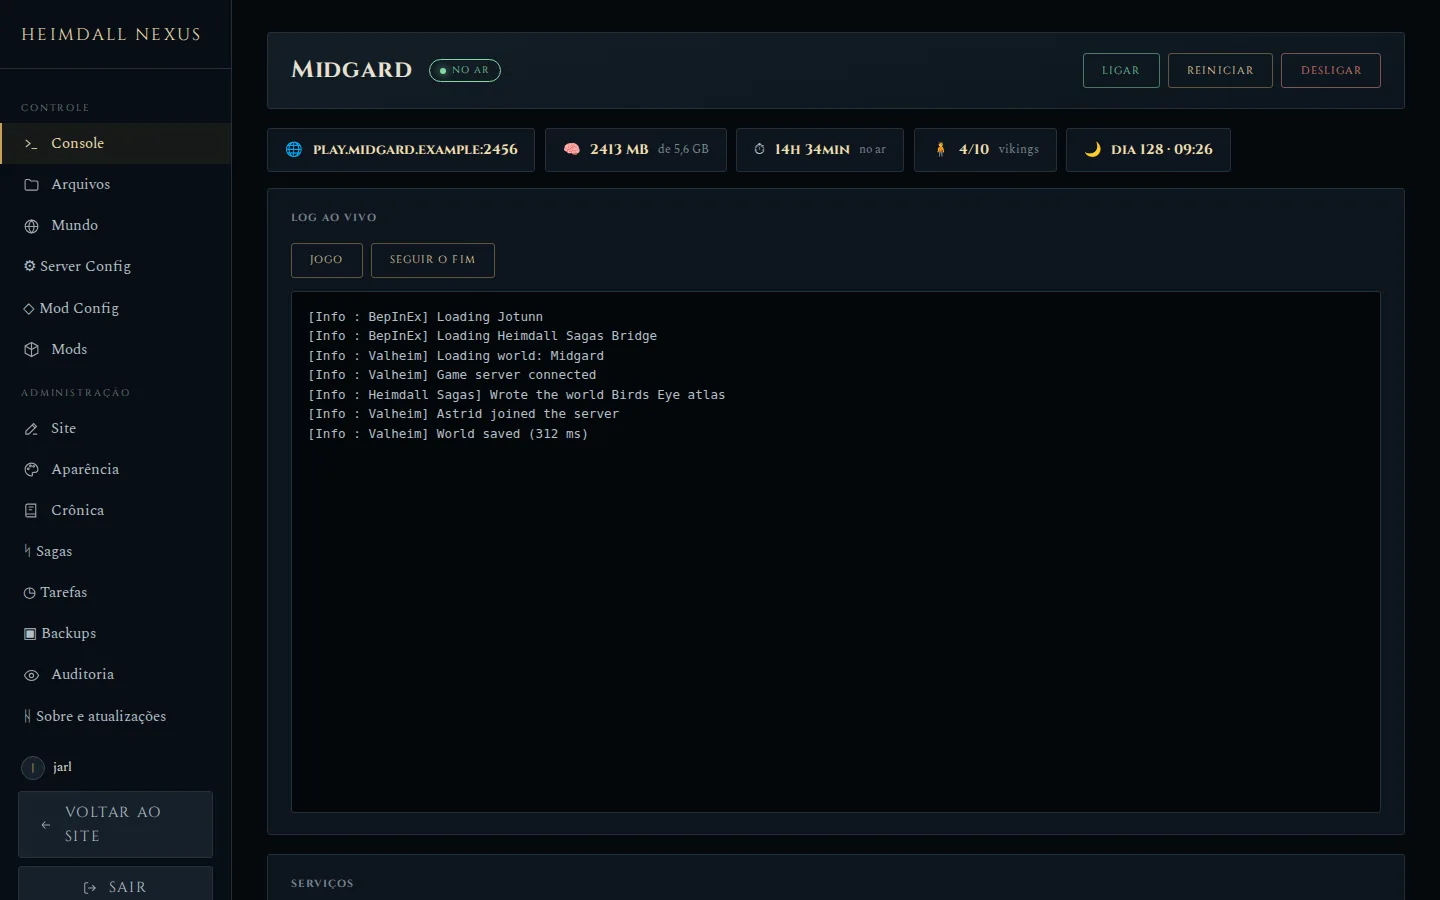
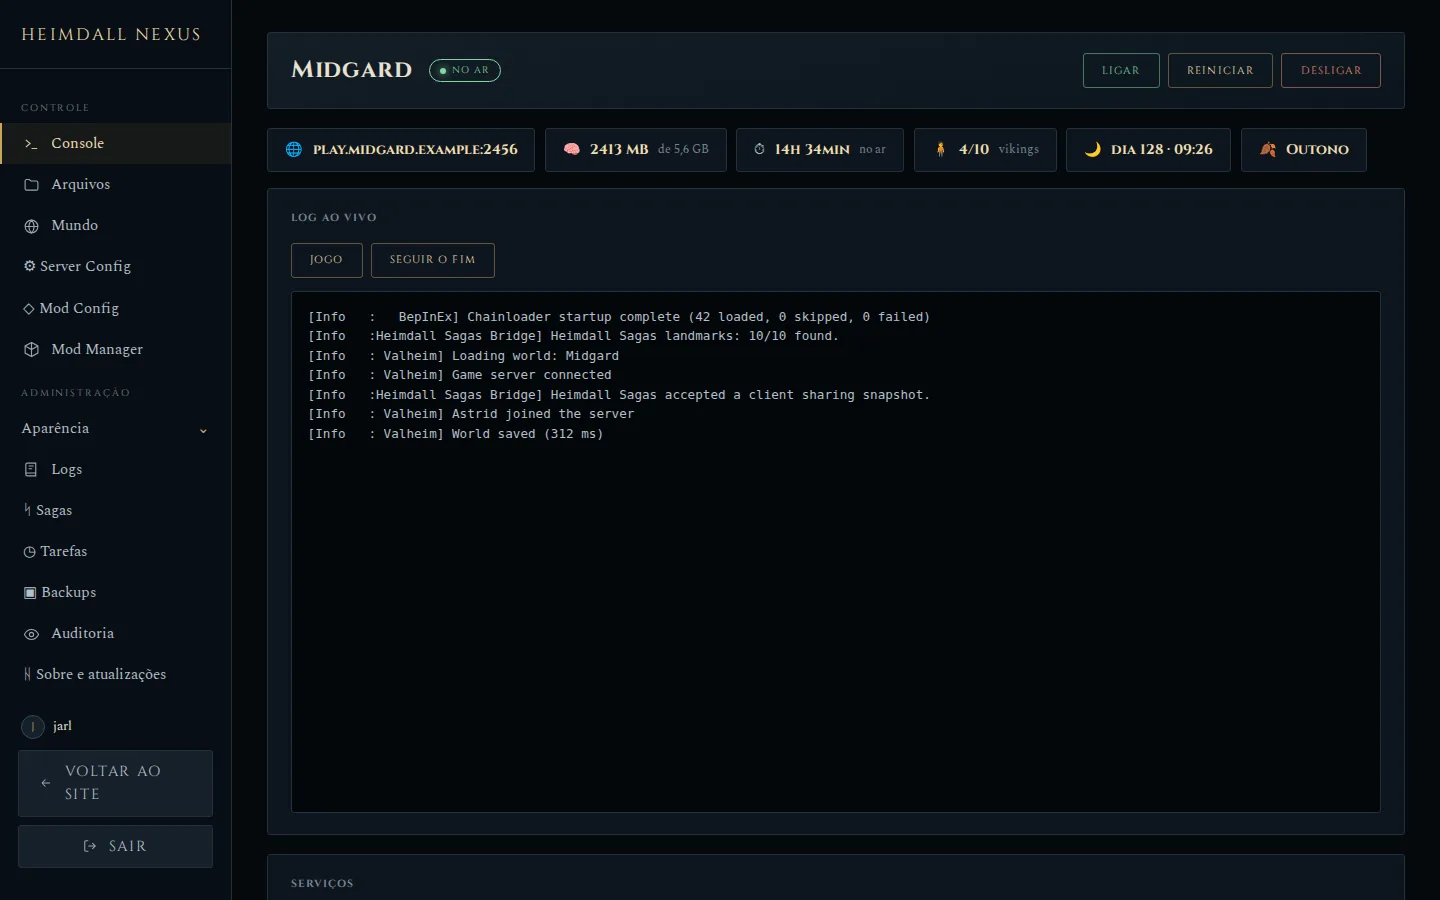
Release Heimdall Nexus 1.0.0

diff --git a/servicos/painel/modelos/mods.html b/servicos/painel/modelos/mods.html
@@ -13,7 +13,7 @@
   O que está instalado sai do <code>mods.lock.json</code> do servidor; o catálogo junta o
   Hexium e a Thunderstore. Pacote que existe nas duas aparece uma vez, pela loja com a
   versão mais nova (no empate, o Hexium). Instalar, atualizar e remover param o servidor,
-  fazem backup verificado e religam — tudo sozinho.
+  guardam uma cópia do que muda e o deixam desligado: inicie-o pelo Console quando terminar.
 </p>
 
 <div class="abas">
@@ -204,13 +204,13 @@ async function procura(nova=true){
 function ligaBotoes(){
   document.querySelectorAll('[data-instalar]').forEach(b => b.onclick = () =>
     executa('mods.instalar', {nome:b.dataset.instalar, versao:b.dataset.versao},
-            `Instalar ${b.dataset.instalar} ${b.dataset.versao}?\n\nO servidor para, instala e religa.`));
+            `Instalar ${b.dataset.instalar} ${b.dataset.versao}?\n\nO servidor para e continua desligado; ligue-o pelo Console quando quiser.`));
   document.querySelectorAll('[data-atualizar]').forEach(b => b.onclick = () =>
     executa('mods.atualizar', {nome:b.dataset.atualizar, versao:b.dataset.versao},
-            `Atualizar ${b.dataset.atualizar} para ${b.dataset.versao}?\n\nO servidor para, atualiza e religa.`));
+            `Atualizar ${b.dataset.atualizar} para ${b.dataset.versao}?\n\nO servidor para e continua desligado; ligue-o pelo Console quando quiser.`));
   document.querySelectorAll('[data-remover]').forEach(b => b.onclick = () =>
     executa('mods.remover', {nome:b.dataset.remover},
-            `Remover ${b.dataset.remover}?\n\nA pasta vai para o porão de cópias antes de sumir.`));
+            `Remover ${b.dataset.remover}?\n\nA pasta vai para o porão de cópias antes de sumir. O servidor para e continua desligado.`));
 }
 
 async function executa(verbo, dados, pergunta){

diff --git a/README.pt-BR.md b/README.pt-BR.md
@@ -13,7 +13,7 @@ num único assistente guiado, numa máquina nova com Ubuntu ou Debian.
 [![Valheim](https://img.shields.io/badge/Valheim-servidor%20dedicado-c8a45c?style=flat-square&labelColor=0d151d)](https://valheim.com/support/a-guide-to-dedicated-servers/)
 [![Plataforma](https://img.shields.io/badge/Ubuntu%20%7C%20Debian-x86--64-c8a45c?style=flat-square&labelColor=0d151d)](#começo-rápido)
 [![Python](https://img.shields.io/badge/Python-3.10%2B-c8a45c?style=flat-square&labelColor=0d151d)](https://www.python.org/)
-[![Versão](https://img.shields.io/badge/vers%C3%A3o-0.2.1-c8a45c?style=flat-square&labelColor=0d151d)](CHANGELOG.md)
+[![Versão](https://img.shields.io/badge/vers%C3%A3o-1.0.0-c8a45c?style=flat-square&labelColor=0d151d)](CHANGELOG.md)
 
 </div>
 
@@ -27,15 +27,17 @@ O instalador roda no seu servidor e abre no seu navegador. São cinco telas: end
 
 ## Cuide do servidor por um painel só
 
-Ligue, desligue e reinicie o jogo, acompanhe o log ao vivo, edite arquivos e configurações de mods, instale e atualize mods, agende reinícios e backups e restaure qualquer backup com um clique. Toda mudança fica registrada na auditoria.
+Ligue, desligue e reinicie o jogo, acompanhe o log ao vivo, edite arquivos e configurações de mods, instale e atualize mods, faça wipe ou troque o mundo, agende reinícios e backups e restaure qualquer backup com um clique. Ações arriscadas pedem confirmação numa caixa do próprio painel, e toda mudança fica registrada na auditoria.
 
 <img src=".github/assets/panel.webp" alt="Painel do Heimdall Nexus" width="100%">
 
 ## Dê à sua comunidade um site de verdade
 
-Um site rápido com estado do servidor ao vivo, jogadores online, hora do mundo e a lista de mods. Defina nome, logo, favicon e cores em **Aparência**, edite cada texto direto na página e crie páginas a partir dos modelos wiki ou vazio. Sem código e sem planilhas.
+Um site rápido com estado do servidor ao vivo, jogadores online, hora do mundo e a lista de mods. Defina nome, logo, favicon e cores em **Aparência** e edite qualquer página no **Layout Editor**: clique em algo da página e aparecem só as ferramentas daquilo, nas abas Conteúdo, Estilo e Bloco. Crie páginas a partir dos modelos wiki ou vazio e organize o menu do site arrastando. Sem código e sem planilhas.
 
 <img src=".github/assets/site.webp" alt="Um site de comunidade feito com o Heimdall Nexus" width="100%">
+
+<img src=".github/assets/editor.webp" alt="O Layout Editor com um texto selecionado e as ferramentas de Estilo abertas" width="100%">
 
 <sub>As capturas usam dados de exemplo.</sub>
 
@@ -70,15 +72,16 @@ Depois entre em `https://seu-dominio/jarl/entrar`. Passo a passo completo: [**In
 - Valheim Dedicated Server pelo SteamCMD, como serviço systemd
 - BepInEx opcional, com modpacks da Thunderstore ou do Hexium (é só colar o link)
 - Seu próprio modpack `.zip`, com mods privados
-- Server Config: nome, mundo, porta, senha, modificadores, admins e whitelist
+- Server Config: nome, mundo, porta, senha, modificadores, admins, whitelist e banidos, com as opções de inicialização resultantes à vista
+- Wipe de mundo com nome, seed e modificadores novos, ou troca por um mundo enviado
 
 </td>
 <td width="50%" valign="top">
 
 **Dia a dia**
-- Console ao vivo, gerenciador de arquivos e editor de configurações de mods
-- Instalar e atualizar mods, com backup verificado antes de cada mudança
-- Atualizar o Heimdall pelo Jarl, com progresso, códigos de erro e canal estável
+- Console ao vivo, gerenciador de arquivos, editor de configurações de mods e Logs do chat e da administração
+- Mod Manager: instalar, atualizar e remover mods, com backup verificado antes de cada mudança
+- Atualizar o Heimdall pelo Jarl, com progresso, códigos de erro e canais estável ou de desenvolvimento
 - Tarefas: rotinas cron para reiniciar, ligar, desligar e fazer backup
 - Backups para baixar, restaurar, travar e apagar
 
@@ -88,11 +91,12 @@ Depois entre em `https://seu-dominio/jarl/entrar`. Passo a passo completo: [**In
 <td width="50%" valign="top">
 
 **Site**
-- Estado ao vivo, jogadores, relógio do mundo e lista de mods
-- Editor visual com versões e prévias para compartilhar
+- Estado ao vivo, jogadores, relógio do mundo e lista de mods atualizada pelo Hexium em **Modpack**
+- Layout Editor com versões, desfazer e prévias para compartilhar
 - Nome, logo, favicon, fundo e uma tabela global de cores
-- Navegação editável e páginas de mapa, histórias, armaria e rankings
-- Páginas a partir dos modelos wiki ou vazio
+- Menu compartilhado com submenus, editado arrastando, com prévia ao vivo
+- Páginas de mapa, histórias, armaria e rankings, e páginas a partir dos modelos wiki ou vazio
+- Quem está logado no Jarl vê os atalhos **Jarl** e **Layout Editor** em todas as páginas
 
 </td>
 <td width="50%" valign="top">
@@ -109,12 +113,14 @@ Depois entre em `https://seu-dominio/jarl/entrar`. Passo a passo completo: [**In
 
 ## Extensão Sagas opcional
 
-Sagas acrescenta mapa Birds Eye, momentos dos Vikings, equipamento, rankings e
-capítulos com ajuda de IA ao site. O administrador liga cada recurso no Jarl;
-os jogadores escolhem separadamente se compartilham perfil, mapa, posição e
-fatos para histórias. As chaves dos provedores ficam no servidor. O
+Sagas acrescenta mapa Birds Eye, momentos dos Vikings, uma **Armaria** com o
+perfil de cada Viking (retrato tirado pelo próprio jogo, equipamento com ícones,
+barra rápida e detalhes dos itens), rankings e capítulos com ajuda de IA ao
+site. O administrador liga cada recurso no Jarl; os jogadores escolhem
+separadamente se compartilham perfil, mapa, posição e fatos para histórias. As
+chaves dos provedores ficam no servidor. O
 [guia Sagas](https://github.com/brkihel/Heimdall-Nexus/wiki/Sagas-PT)
-explica instalação, consentimento e os limites desta prévia.
+explica instalação, consentimento e o que ainda está no roteiro.
 
 <img src=".github/assets/stories.webp" alt="História ilustrativa de um Viking, com a fogueira e arte da luta contra um chefe" width="100%">
 
@@ -133,7 +139,7 @@ Tudo está na [**wiki**](https://github.com/brkihel/Heimdall-Nexus/wiki/Inicio),
 
 Pelo painel: **Jarl → Sobre e atualizações → Procurar atualizações**. Você vê a lista de mudanças e aprova a versão exata; o painel se atualiza e volta sozinho.
 
-<img src=".github/assets/updates.webp" alt="Jarl mostrando o Heimdall Nexus 0.2.0 e o canal estável de atualização" width="100%">
+<img src=".github/assets/updates.webp" alt="Jarl mostrando o Heimdall Nexus 1.0.0 no canal estável de atualização" width="100%">
 
 As capturas usam dados ilustrativos; não mostram um servidor real.
 
@@ -143,7 +149,7 @@ Pelo terminal, num servidor já instalado:
 cd ~/Heimdall-Nexus && git pull --ff-only && sudo ./deploy/update.sh
 ```
 
-Atualiza o painel e as ferramentas sem mexer em mundos, mods ou conteúdo do site, e não reinicia o Valheim.
+Atualiza o painel e as ferramentas sem mexer em mundos, mods ou conteúdo do site, e não reinicia o Valheim. Se a ponte Sagas mudou, reinicie o jogo quando for conveniente.
 
 ## Licença
 

diff --git a/README.md b/README.md
@@ -13,7 +13,7 @@ from one guided wizard, on a fresh Ubuntu or Debian machine.
 [![Valheim](https://img.shields.io/badge/Valheim-dedicated%20server-c8a45c?style=flat-square&labelColor=0d151d)](https://valheim.com/support/a-guide-to-dedicated-servers/)
 [![Platform](https://img.shields.io/badge/Ubuntu%20%7C%20Debian-x86--64-c8a45c?style=flat-square&labelColor=0d151d)](#quick-start)
 [![Python](https://img.shields.io/badge/Python-3.10%2B-c8a45c?style=flat-square&labelColor=0d151d)](https://www.python.org/)
-[![Version](https://img.shields.io/badge/version-0.2.1-c8a45c?style=flat-square&labelColor=0d151d)](CHANGELOG.md)
+[![Version](https://img.shields.io/badge/version-1.0.0-c8a45c?style=flat-square&labelColor=0d151d)](CHANGELOG.md)
 
 </div>
 
@@ -27,15 +27,17 @@ The installer runs on your server and opens in your own browser. Five screens: s
 
 ## Run the server from one panel
 
-Start, stop and restart the game, watch the live log, edit files and mod configs, install and update mods, schedule restarts and backups, and restore any backup with one click. Every change is recorded in an audit log.
+Start, stop and restart the game, watch the live log, edit files and mod configs, install and update mods, wipe or swap worlds, schedule restarts and backups, and restore any backup with one click. Risky actions ask first in the panel's own dialog, and every change is recorded in an audit log.
 
 <img src=".github/assets/panel.webp" alt="Heimdall Nexus admin panel" width="100%">
 
 ## Give your community a real website
 
-A fast site with live server status, players online, world time and your mod list. Set your name, logo, favicon and colors in **Aparência**, edit every text right on the page, and add pages from wiki or blank templates. No code, no spreadsheets.
+A fast site with live server status, players online, world time and your mod list. Set your name, logo, favicon and colors in **Aparência**, and edit any page in the **Layout Editor**: click something on the page and only its tools appear, in Content, Style and Block tabs. Add pages from wiki or blank templates, and arrange the site menu by dragging. No code, no spreadsheets.
 
 <img src=".github/assets/site.webp" alt="A community website made with Heimdall Nexus" width="100%">
+
+<img src=".github/assets/editor.webp" alt="The Layout Editor with a text selected and its Style tools open" width="100%">
 
 <sub>Screenshots use sample data.</sub>
 
@@ -70,15 +72,16 @@ Then sign in at `https://your-domain/jarl/entrar`. Full walkthrough: [**Installa
 - Valheim Dedicated Server through SteamCMD, as a systemd service
 - Optional BepInEx, with modpacks from Thunderstore or Hexium (paste the link)
 - Your own `.zip` modpack with private mods
-- Server Config: name, world, port, password, world modifiers, admins and allowlist
+- Server Config: name, world, port, password, world modifiers, admins, allowlist and bans, with the resulting launch options on view
+- World wipes with a new name, seed and modifiers, or swap in an uploaded world
 
 </td>
 <td width="50%" valign="top">
 
 **Day to day**
-- Live console, file manager and mod config editor
-- Install and update mods, with a verified backup before each change
-- Update Heimdall from Jarl, with progress, error codes and a stable channel
+- Live console, file manager, mod config editor and chat/admin logs
+- Mod Manager: install, update and remove mods, with a verified backup before each change
+- Update Heimdall from Jarl, with progress, error codes and stable or development channels
 - Tarefas: cron schedules for restarts, starts, stops and backups
 - Backups you can download, restore, lock and delete
 
@@ -88,11 +91,12 @@ Then sign in at `https://your-domain/jarl/entrar`. Full walkthrough: [**Installa
 <td width="50%" valign="top">
 
 **Website**
-- Live status, players, world clock and mod list
-- Visual editor with versions and shareable previews
+- Live status, players, world clock and a mod list you refresh from Hexium in **Modpack**
+- Layout Editor with versions, undo and shareable previews
 - Name, logo, favicon, background and a global color table
-- Editable navigation and pages for map, stories, armory and rankings
-- Pages from wiki or blank templates
+- A shared menu with submenus, edited by dragging, with live preview
+- Pages for map, stories, armory and rankings, plus pages from wiki or blank templates
+- Signed-in admins get **Jarl** and **Layout Editor** shortcuts on every page
 
 </td>
 <td width="50%" valign="top">
@@ -109,11 +113,13 @@ Then sign in at `https://your-domain/jarl/entrar`. Full walkthrough: [**Installa
 
 ## Optional Sagas extension
 
-Sagas adds a Birds Eye map, Viking moments, equipment, rankings and AI-assisted
-chapters to the site. The admin enables each feature in Jarl; players choose
-separately whether to share their profile, map, position and story facts.
-Provider keys stay on the server. The [Sagas guide](https://github.com/brkihel/Heimdall-Nexus/wiki/Sagas)
-explains installation, consent and the remaining preview limits.
+Sagas adds a Birds Eye map, Viking moments, an **Armory** with each Viking's
+profile (a portrait rendered by the game, equipment with icons, hotbar and
+item details), rankings and AI-assisted chapters to the site. The admin
+enables each feature in Jarl; players choose separately whether to share their
+profile, map, position and story facts. Provider keys stay on the server. The
+[Sagas guide](https://github.com/brkihel/Heimdall-Nexus/wiki/Sagas) explains
+installation, consent and what is still on the roadmap.
 
 <img src=".github/assets/stories.webp" alt="Sample Viking story with the campfire background and boss battle art" width="100%">
 
@@ -132,7 +138,7 @@ Everything lives in the [**wiki**](https://github.com/brkihel/Heimdall-Nexus/wik
 
 From the panel: **Jarl → Sobre e atualizações → Procurar atualizações**. Review the changes, approve the exact version, and the panel updates and comes back on its own.
 
-<img src=".github/assets/updates.webp" alt="Jarl showing Heimdall Nexus 0.2.0 and the stable update channel" width="100%">
+<img src=".github/assets/updates.webp" alt="Jarl showing Heimdall Nexus 1.0.0 on the stable update channel" width="100%">
 
 Screenshots use illustrative data; they do not show a real server.
 
@@ -142,7 +148,7 @@ From a terminal on an installed server:
 cd ~/Heimdall-Nexus && git pull --ff-only && sudo ./deploy/update.sh
 ```
 
-It updates the panel and tools without touching worlds, mods or site content, and does not restart Valheim.
+It updates the panel and tools without touching worlds, mods or site content, and does not restart Valheim. If the Sagas bridge changed, restart the game when convenient.
 
 ## License
 

diff --git a/CHANGELOG.md b/CHANGELOG.md
@@ -1,5 +1,26 @@
 # Heimdall Nexus — versões
 
+## 1.0.0
+
+Primeira versão estável. Reúne tudo o que veio nas 0.2.x:
+
+- **Servidor:** instalação guiada, Server Config com modificadores e listas de
+  acesso, wipe e troca de mundo, Mod Manager, Tarefas, Backups, Logs,
+  Auditoria e atualização pelo próprio Jarl, em canais estável ou de
+  desenvolvimento.
+- **Site:** Layout Editor no estilo construtor de páginas, menu com
+  submenus editado arrastando, Páginas, Configurações Globais, Modpack
+  sincronizado com o Hexium e atalhos do Jarl nas páginas para quem está
+  logado.
+- **Sagas (opcional):** mapa Birds Eye, momentos, Armaria com retrato e
+  equipamento, rankings recentes e histórias com IA, tudo sob o consentimento
+  de cada jogador.
+- As confirmações do painel usam uma caixa própria, que o navegador não
+  consegue bloquear.
+- O Mod Manager avisa corretamente que instalar, atualizar ou remover um mod
+  deixa o servidor desligado.
+- Documentação e wiki revistas para a 1.0, com capturas novas.
+
 ## 0.2.9
 
 - As confirmações do Jarl (ligar, reiniciar, apagar, wipe, restaurar…) usam

diff --git a/docs/SAGAS-EXTENSION.md b/docs/SAGAS-EXTENSION.md
@@ -1,9 +1,11 @@
 # Heimdall Sagas extension
 
-Status: **optional preview introduced in Heimdall Nexus 0.2.0** (bridge and
-client 0.2.1 add the Armory profile). The extension is opt-in and separate
-from the existing `saga.json` skill ranking. It has not been installed on a live
-server or published to Hexium.
+Status: **optional extension, part of Heimdall Nexus 1.0** (bridge and client
+0.2.1, which add the Armory profile). The extension is opt-in and separate
+from the existing `saga.json` skill ranking. It runs on a live server and has
+been played with one client at a time; the client package is not yet
+published on Hexium. Rows marked "Implemented in preview" below still await a
+wider multi-player test.
 
 ## Ownership and design
 
